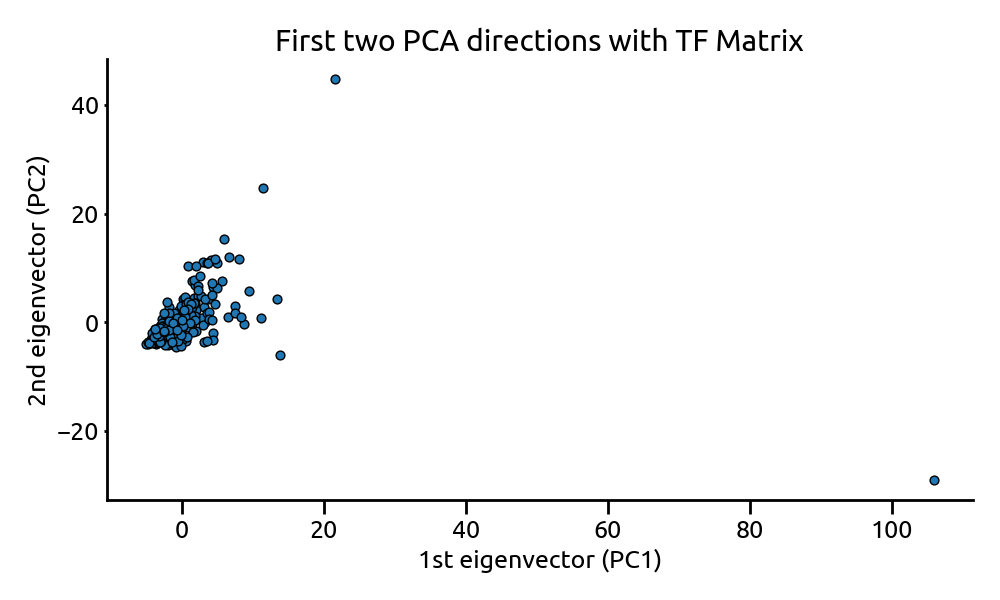
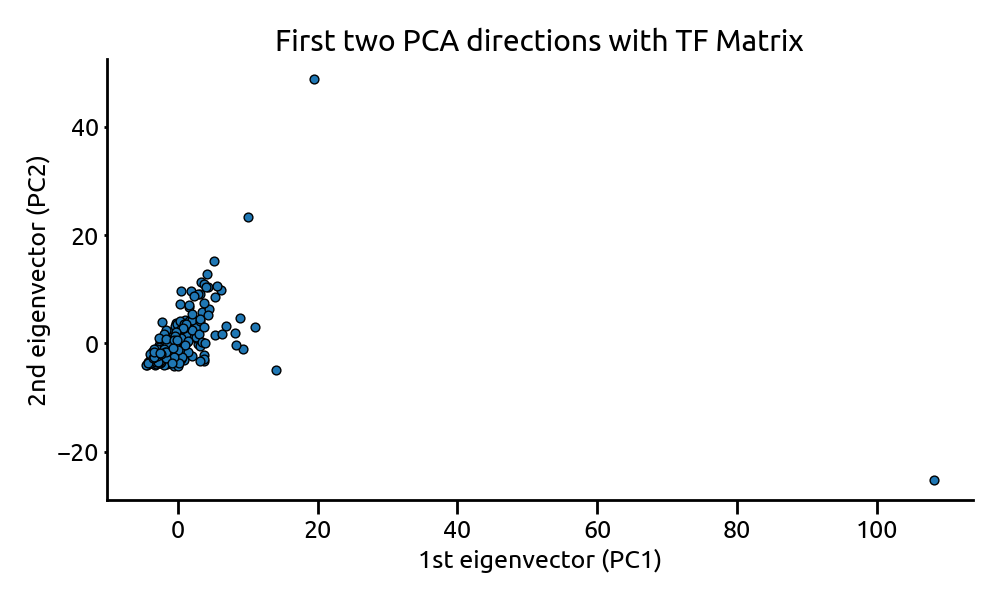
fixed stopwords bug

diff --git a/src/nlp_processor.py b/src/nlp_processor.py
@@ -65,22 +65,17 @@ class NlpProcessor(object):
     def tokenize_doc(self, set_of_docs)->list:
         return [word_tokenize(content.lower()) for content in set_of_docs ]
 
-    def remove_stopwords_and_punc(self, tokenized_set_of_docs:list, stop_words, remove_punc=True)->list:
-        no_stops_docs = []
+    def remove_punc(self, tokenized_set_of_docs:list)->list:
+        no_punc_docs = []
         for tokens in tokenized_set_of_docs:
             saved_tokens = []
             for token in tokens:
-                if remove_punc:
-                    if token.isalpha():
-                        if token not in stop_words:
-                            saved_tokens.append(token)
-                else:
-                    if token not in stop_words:
-                        saved_tokens.append(token)
-            no_stops_docs.append(saved_tokens)
-            #no_stops_docs.append([word for word in words if word not in final_stop_words and word])
+                if token.isalpha():
+                    saved_tokens.append(token)
+
+            no_punc_docs.append(saved_tokens)
         
-        return no_stops_docs
+        return no_punc_docs
 
     def stem_porter(self, tokenized_set_of_docs:list)->list:
         porter = PorterStemmer()
@@ -106,18 +101,22 @@ class NlpProcessor(object):
         
         return wordnet_docs
 
-    def text_tokenization_pipeline(self, list_of_docs : list, stop_words, remove_punc : bool, tokenizer='wordnet') -> list:
+    def text_tokenization_pipeline(self, list_of_docs : list, remove_punc : bool, tokenizer='wordnet') -> list:
         tokenized_docs = self.tokenize_doc(list_of_docs)
-        no_stops_docs = self.remove_stopwords_and_punc(tokenized_docs, stop_words, remove_punc=remove_punc)
+        if remove_punc:
+            updated_docs = self.remove_punc(tokenized_docs)
+        else:
+            updated_docs = tokenized_docs
+
         lemm_stemm_docs = []
         if tokenizer == 'wordnet':
-            lemm_stemm_docs = self.lemm_wordnet(no_stops_docs)
+            lemm_stemm_docs = self.lemm_wordnet(updated_docs)
         elif tokenizer == 'porter':
-            lemm_stemm_docs = self.stem_porter(no_stops_docs)
+            lemm_stemm_docs = self.stem_porter(updated_docs)
         elif tokenizer == 'snowball':
-            lemm_stemm_docs = self.stem_snowball(no_stops_docs)
+            lemm_stemm_docs = self.stem_snowball(updated_docs)
         else:
-            lemm_stemm_docs = no_stops_docs
+            lemm_stemm_docs = updated_docs
             
         return lemm_stemm_docs
 
@@ -135,24 +134,22 @@ class NlpProcessor(object):
         return stop_words.union(custom_stop_words)
 
     def create_tf_matrix(self, docs, all_stop_words:list, n_gram_range, max_features, remove_punc=True, tokenizer='None'):
-        tokens = self.text_tokenization_pipeline(docs,stop_words=all_stop_words,
-                                                remove_punc=True, tokenizer=tokenizer)
+        tokens = self.text_tokenization_pipeline(docs, remove_punc=True, tokenizer=tokenizer)
 
         documents = [' '.join(doc) for doc in tokens]
 
-        count_vect = CountVectorizer(max_features=max_features, ngram_range=n_gram_range)
+        count_vect = CountVectorizer(max_features=max_features, ngram_range=n_gram_range, lowercase=True, stop_words=all_stop_words)
         tf_matrix = count_vect.fit_transform(documents)
 
         return tf_matrix, count_vect
 
-    def create_tf_idf_matrix(self, docs, all_stop_words:list,max_feats , n_gram_range, tokenizer='None'):
+    def create_tf_idf_matrix(self, docs, all_stop_words:list, max_feats, n_gram_range, remove_punc=True, tokenizer='None'):
         # tokens is a list of lists - words per document
-        tokens = nlp.text_tokenization_pipeline(docs, stop_words=all_stop_words,
-                                                    remove_punc=True, tokenizer=tokenizer)
+        tokens = nlp.text_tokenization_pipeline(docs, remove_punc=remove_punc, tokenizer=tokenizer)
 
         # reconstruct each document after processing
         documents = [' '.join(doc) for doc in tokens]
-        tfidf_vect = TfidfVectorizer(ngram_range=n_gram_range,max_features=max_feats, lowercase=False)
+        tfidf_vect = TfidfVectorizer(ngram_range=n_gram_range,max_features=max_feats, lowercase=True, stop_words=all_stop_words)
         tfidf_matrix = tfidf_vect.fit_transform(documents)
         #print(tfidf_vect.get_feature_names())
         
@@ -386,20 +383,17 @@ if __name__ == '__main__':
     custom_stopwords = ['change','family','find','approach','couples','issues','also',
     'anxiety','working','experience','relationship','relationships','therapist','counseling',
     'people','feel','clients','help','work','life','therapy','psychotherapy', 'feel', 
-    'feeling','get', 'warson', 'counseling', 'way', 'practice', 'call', 'today']
-
-    custom_stopwords += ['health', 'helping', 'free', 'depression', 'like', 'trauma', 'may', 'together', 'make',
+    'feeling','get', 'warson', 'counseling', 'way', 'practice', 'call', 'today','health',
+    'helping', 'free', 'depression', 'like', 'trauma', 'may', 'together', 'make',
     'process', 'want', 'support', 'believe', 'goal', 'one', 'session', 'time', 'offer',
-    'individual', 'need']
-
-    custom_stopwords += ['year', 'need', 'consultation', 'well', 'skill', 'new', 'emotional',
+    'individual', 'need', 'year', 'need', 'consultation', 'well', 'skill', 'new', 'emotional',
      'provide', 'take', 'use', 'goal', 'person', 'child', 'individual', 'life', 'many', 'healing',
-      'problem', 'see', 'know']
+      'problem', 'see', 'know', 'right', 'place', 'strength', 'important', 'good', 'learn', 'therapeutic', 'best', 'love', 'safe', 'personal', 'mental', 'emotion', 'often', 'others', 'challenge', 'ha', 'couple', 'issue', 'client']
 
     final_stop_words = nlp.combine_stop_words(custom_stopwords)
 
     tfidf_matrix = nlp.create_tf_idf_matrix(df['writing_sample'], all_stop_words=final_stop_words,max_feats=1000, 
-        n_gram_range=(1,3), tokenizer='wordnet')
+        n_gram_range=(1,3), remove_punc=True, tokenizer='wordnet')
 
     tf_matrix, count_vect = nlp.create_tf_matrix(docs=df['writing_sample'], all_stop_words=final_stop_words, 
         n_gram_range=(1,1), max_features=1000, remove_punc=True, tokenizer='wordnet')
@@ -418,7 +412,7 @@ if __name__ == '__main__':
     lda = nlp.fit_lda_model(tf_matrix, num_topics=3)    
     num_top_n_grams = 10
     tf_feature_names = count_vect.get_feature_names()
-    nlp.display_topics(lda, tf_feature_names, num_top_n_grams, custom_stopwords, log_lda=False)
+    nlp.display_topics(lda, tf_feature_names, num_top_n_grams, custom_stopwords, log_lda=True)
     words, counts = nlp.get_most_freq_words(count_vect, tf_matrix, 20, print_dict_to_terminal=False)
     print('Most Frequent words/n_grams')
     print(words)
